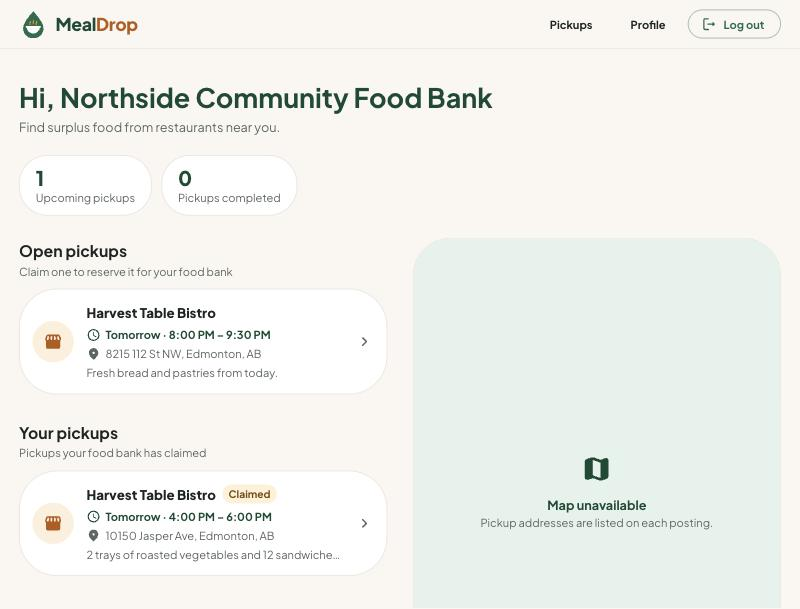
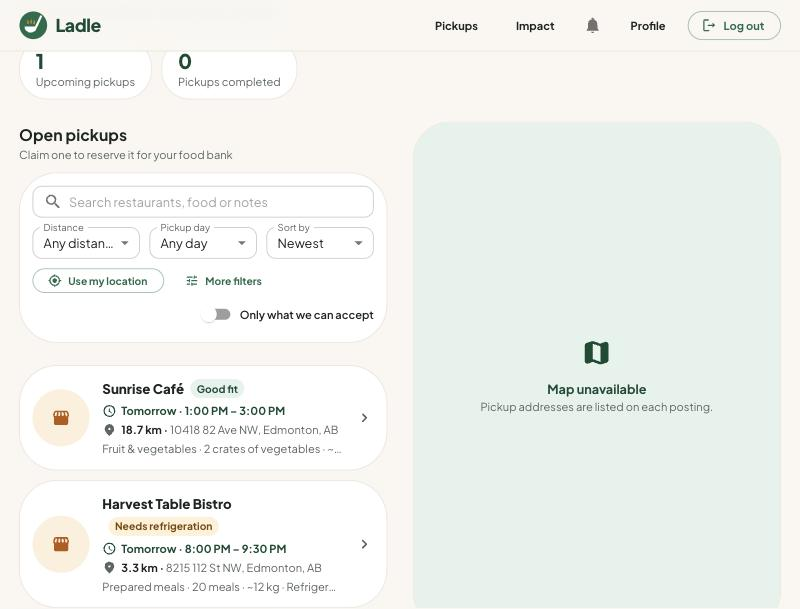
Update docs and screenshots for the Ladle name
Rename the README, design doc and audit report. The design doc
records why Ladle was chosen, describes the new logo, and notes the
trademark, domain and app store checks still to do. Retake the README
screenshots with the new branding.

diff --git a/docs/DESIGN.md b/docs/DESIGN.md
@@ -1,16 +1,16 @@
-# MealDrop design direction
+# Ladle design direction
 
-This document records who MealDrop is for, which products it competes with, and how that shaped the visual redesign in November 2026.
+This document records who Ladle is for, which products it competes with, and how that shaped the visual redesign in November 2026.
 
 ## Scope and audience
 
-MealDrop is a free web app that connects **restaurants with surplus food** to **food banks** that can collect it. The current build is scoped to Canada (geocoding region, "Province" and "Charitable Registration #" fields, default map centre in Edmonton).
+Ladle is a free web app that connects **restaurants with surplus food** to **food banks** that can collect it. The current build is scoped to Canada (geocoding region, "Province" and "Charitable Registration #" fields, default map centre in Edmonton).
 
 | Who | What they need from the UI |
 |---|---|
 | **Restaurant / café manager** (donor) | Post surplus in a minute or two at the end of a busy shift, on a phone or a back-office laptop. See whether someone has claimed it. |
 | **Food bank / shelter coordinator** (recipient) | Scan what's nearby and *when* it can be collected, claim it with confidence, and keep track of pickups they've committed to. |
-| **Guest** (curious donor or funder) | Understand in seconds what MealDrop does and which side they're on. |
+| **Guest** (curious donor or funder) | Understand in seconds what Ladle does and which side they're on. |
 
 ## Competitors
 
@@ -18,7 +18,7 @@ Researched in November 2026 from public sources (listed at the end). Figures are
 
 | Product | Model | Who uses it | Cost | What it does well |
 |---|---|---|---|---|
-| **Second Harvest Food Rescue app / FoodRescue.ca** | Donor posts surplus; registered non-profits nearby get an email and claim it | Canadian food businesses and approved social-service agencies | Free | The closest competitor to MealDrop: national Canadian reach, screened donors, claim-based flow. Businesses apply to become approved donors first. |
+| **Second Harvest Food Rescue app / FoodRescue.ca** | Donor posts surplus; registered non-profits nearby get an email and claim it | Canadian food businesses and approved social-service agencies | Free | The closest competitor to Ladle: national Canadian reach, screened donors, claim-based flow. Businesses apply to become approved donors first. |
 | **Feeding America MealConnect** | Donor posts a photo and pickup details; the platform matches it to a local food bank or pantry | US restaurants, bakeries, grocers; Feeding America network | Free | Photo-first posting, automatic matching, live delivery tracking, donation guidelines in the app. |
 | **Food Rescue Hero** (412 Food Rescue) | Volunteer drivers get push alerts for nearby rescues and are navigated from pickup to drop-off | Partner rescue organisations in the US and Canada | Free to volunteers; run by partner orgs | Fast response through push notifications and turn-by-turn pickup logistics. |
 | **Replate** | Businesses schedule on-demand or recurring pickups; Replate's rescuers deliver to nearby non-profits | Offices, caterers, chain restaurants (US) | Paid by the business | Recurring scheduling and impact reporting (meals, CO₂, water). |
@@ -27,15 +27,15 @@ Researched in November 2026 from public sources (listed at the end). Figures are
 | **Flashfood** | Consumers buy discounted near-expiry groceries | Grocery stores and shoppers (Canada, US) | Discounted sales | Simple, deal-focused browsing. |
 | **Olio** | Neighbours and volunteers share surplus food locally | Households, volunteers, businesses | Freemium | Community feel, local sharing. |
 
-### Where MealDrop fits
+### Where Ladle fits
 
-- **Same mission, lower friction.** Second Harvest and MealConnect are the direct comparisons: free, donor-to-charity, claim or match based. MealDrop's angle is that any small independent restaurant can sign up and post immediately, with a map of what's nearby.
-- **Not a marketplace.** Too Good To Go and Flashfood sell surplus to consumers. MealDrop gives it to food banks for free, so the tone should be about community and impact, not deals.
-- **Not a logistics company (yet).** Replate, Goodr and Food Rescue Hero own the pickup. MealDrop leaves pickup to the food bank; volunteer drivers stay on the roadmap.
+- **Same mission, lower friction.** Second Harvest and MealConnect are the direct comparisons: free, donor-to-charity, claim or match based. Ladle's angle is that any small independent restaurant can sign up and post immediately, with a map of what's nearby.
+- **Not a marketplace.** Too Good To Go and Flashfood sell surplus to consumers. Ladle gives it to food banks for free, so the tone should be about community and impact, not deals.
+- **Not a logistics company (yet).** Replate, Goodr and Food Rescue Hero own the pickup. Ladle leaves pickup to the food bank; volunteer drivers stay on the roadmap.
 
 ## What the redesign takes from this
 
-| Lesson | Seen in | What MealDrop now does |
+| Lesson | Seen in | What Ladle now does |
 |---|---|---|
 | Pick your side first | Every competitor has separate donor and recipient onboarding | The landing page has two clear entry points ("I'm a restaurant" / "I'm a food bank"), and sign-up uses two large role cards instead of a yes/no dropdown. |
 | The pickup window is the key fact | Too Good To Go, MealConnect | Posting cards lead with the restaurant and a prominent pickup date/time chip. |
@@ -44,9 +44,15 @@ Researched in November 2026 from public sources (listed at the end). Figures are
 | Warm, human, trustworthy | Too Good To Go, Olio | A green-and-tangerine palette on a soft cream background, a rounded friendly typeface, and original illustrations instead of stock clip art. |
 | Works on a phone | All mobile-first competitors | Layouts stack on small screens, and there's a consistent header with sign-out on every page. |
 
+## Name
+
+The app was renamed from **MealDrop** to **Ladle** in November 2026. "Ladle" is one easy-to-say word, it is visual (a ladle is the tool for serving food to others), and it suits community kitchens and food banks without sounding like a discount marketplace. Because the name doesn't describe the service on its own, it's paired with a short tagline where needed, for example *"Ladle: surplus food, picked up."*
+
+Before relying on the name commercially, check the Canadian Trademarks Database (CIPO), domains and app store listings. A November 2026 web search found no established food-rescue product called Ladle, but did find a portfolio page describing a food-rescue marketplace project with that name.
+
 ## Visual identity
 
-- **Logo:** a rounded "drop" containing a bowl with rising steam, in leaf green with a tangerine accent. The drop stands for *MealDrop*; the bowl says *food*; the steam says *fresh, still good*.
+- **Logo:** a white ladle with three tangerine wisps of steam on a leaf-green circle. The ladle is the tool for serving food to others; the steam says *fresh, still good*. App icons fill the whole square with green so they read well on a home screen.
 - **Colours:**
   - Leaf green `#1B6B4A` (primary: trust, sustainability, "go")
   - Deep green `#0F4A32` (headings, dark accents)

diff --git a/AUDIT_REPORT.md b/AUDIT_REPORT.md
@@ -4,11 +4,11 @@
 
 ---
 
-# Repository Audit Report: MealDrop
+# Repository Audit Report: Ladle (formerly MealDrop)
 
 ## 1. Scope, Vision & Value Proposition
 
-**What it is.** MealDrop is a MERN web app, built solo by Dhairya Prajapati since February 2026, that connects **restaurants with surplus food** to **food banks** that can collect it. Restaurants post the pickup address, a pickup window and notes. Food banks browse postings in a list and on a Google Map, open a posting, and press "I can pick this up".
+**What it is.** Ladle (called MealDrop when this audit was written) is a MERN web app, built solo by Dhairya Prajapati since February 2026, that connects **restaurants with surplus food** to **food banks** that can collect it. Restaurants post the pickup address, a pickup window and notes. Food banks browse postings in a list and on a Google Map, open a posting, and press "I can pick this up".
 
 **Problem.** Food waste at the restaurant level, set against food insecurity (README cites the 30–40% US food-supply waste figure). In practice, small restaurants have no easy channel to offer one-off surplus, and food banks have no visibility into it.
 
@@ -31,7 +31,7 @@
 
 | Competitor | What It Does Well | Differentiate / Align |
 |---|---|---|
-| **Too Good To Go** (consumer surplus marketplace) | Polished mobile UX. Very low-friction listing for businesses. Strong brand around food waste. | **Differentiate:** MealDrop is B2Nonprofit and free, not discounted consumer sales. **Align:** borrow its simple listing flow (one-tap recurring listings, pickup windows as a time picker). |
+| **Too Good To Go** (consumer surplus marketplace) | Polished mobile UX. Very low-friction listing for businesses. Strong brand around food waste. | **Differentiate:** Ladle is B2Nonprofit and free, not discounted consumer sales. **Align:** borrow its simple listing flow (one-tap recurring listings, pickup windows as a time picker). |
 | **Olio** (community and business surplus sharing) | Volunteer network that collects surplus from businesses. Gives impact stats to donors. | **Align:** the volunteer-driver persona in the README roadmap is Olio's model; impact reporting is table stakes. |
 | **Food Rescue US** (volunteer-driven rescue app) | Matches donors, receiving agencies and volunteer drivers. Scheduled, recurring rescues. | **Align:** the posting → claim → pickup → delivered status flow and driver dispatch. **Differentiate:** ad-hoc same-day surplus focus. |
 | **Second Harvest FoodRescue.ca** (Canadian donor ↔ non-profit platform) | National Canadian network. Donor onboarding. Charitable-org verification. | The most direct competitor for a Canada-scoped app. **Differentiate:** hyper-local, map-first, very low onboarding friction for small independents. **Align:** verifying recipient organizations. |

diff --git a/README.md b/README.md
@@ -1,22 +1,22 @@
-<p align="center"><img src="client/public/images/logo-mark.svg" width="96" alt="MealDrop logo"></p>
+<p align="center"><img src="client/public/images/logo-mark.svg" width="96" alt="Ladle logo"></p>
 
-# MealDrop
+# Ladle
 
-MealDrop connects restaurants that have surplus food with food banks that can collect it. Restaurants post what they have and when it can be picked up; food banks see nearby postings on a list and a map, claim one, and mark it collected.
+Ladle connects restaurants that have surplus food with food banks that can collect it. Restaurants post what they have and when it can be picked up; food banks see nearby postings on a list and a map, claim one, and mark it collected.
 
-MealDrop is designed, built and maintained by **Dhairya Prajapati**. Development started in **February 2026** and is ongoing.
+Ladle is designed, built and maintained by **Dhairya Prajapati**. Development started in **February 2026** and is ongoing. (It was called MealDrop until November 2026.)
 
-<p align="center"><img src="docs/screenshots/landing.jpg" width="720" alt="MealDrop landing page"></p>
+<p align="center"><img src="docs/screenshots/landing.jpg" width="720" alt="Ladle landing page"></p>
 
 ## Why
 
-In the United States, an estimated **30 to 40 percent** of the food supply is wasted, while millions of households don't have reliable access to enough food. Restaurants regularly end a shift with good food they can't sell, and small restaurants rarely have an easy way to offer it to someone who can use it. MealDrop aims to make donating that food take a couple of minutes.
+In the United States, an estimated **30 to 40 percent** of the food supply is wasted, while millions of households don't have reliable access to enough food. Restaurants regularly end a shift with good food they can't sell, and small restaurants rarely have an easy way to offer it to someone who can use it. Ladle aims to make donating that food take a couple of minutes.
 
 ## What it does
 
 **For restaurants**
 - Post surplus food in about a minute: food types, quantity and weight, storage (room temperature, fridge, freezer, hot), when it was prepared, allergens and a photo.
-- Set up **weekly donations** (for example, bread every weeknight at 9 PM); MealDrop posts them automatically.
+- Set up **weekly donations** (for example, bread every weeknight at 9 PM); Ladle posts them automatically.
 - Get notified when a food bank claims and picks up your food, and **message** the food bank about pickup details.
 - See your **impact**: donations, kilograms rescued and estimated meals, month by month. Download your records as CSV or print a **donation record** for each pickup.
 
